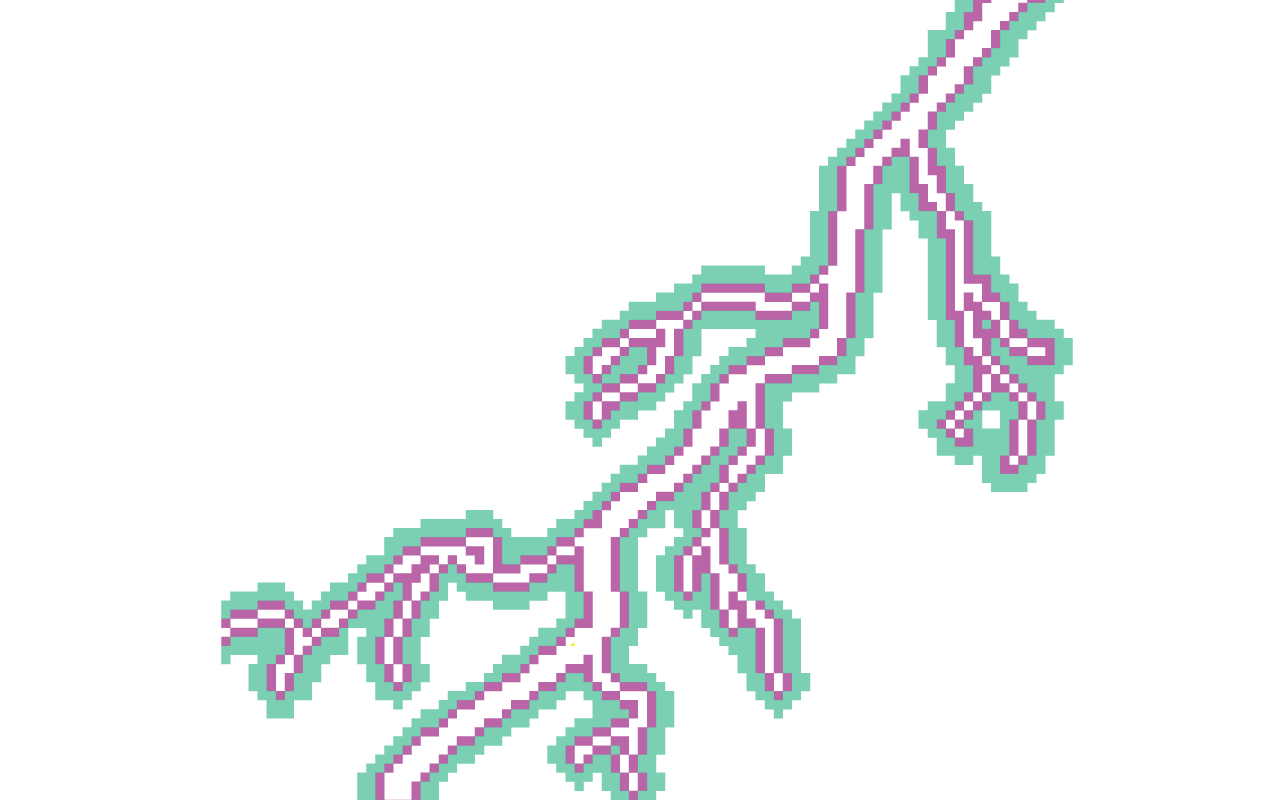
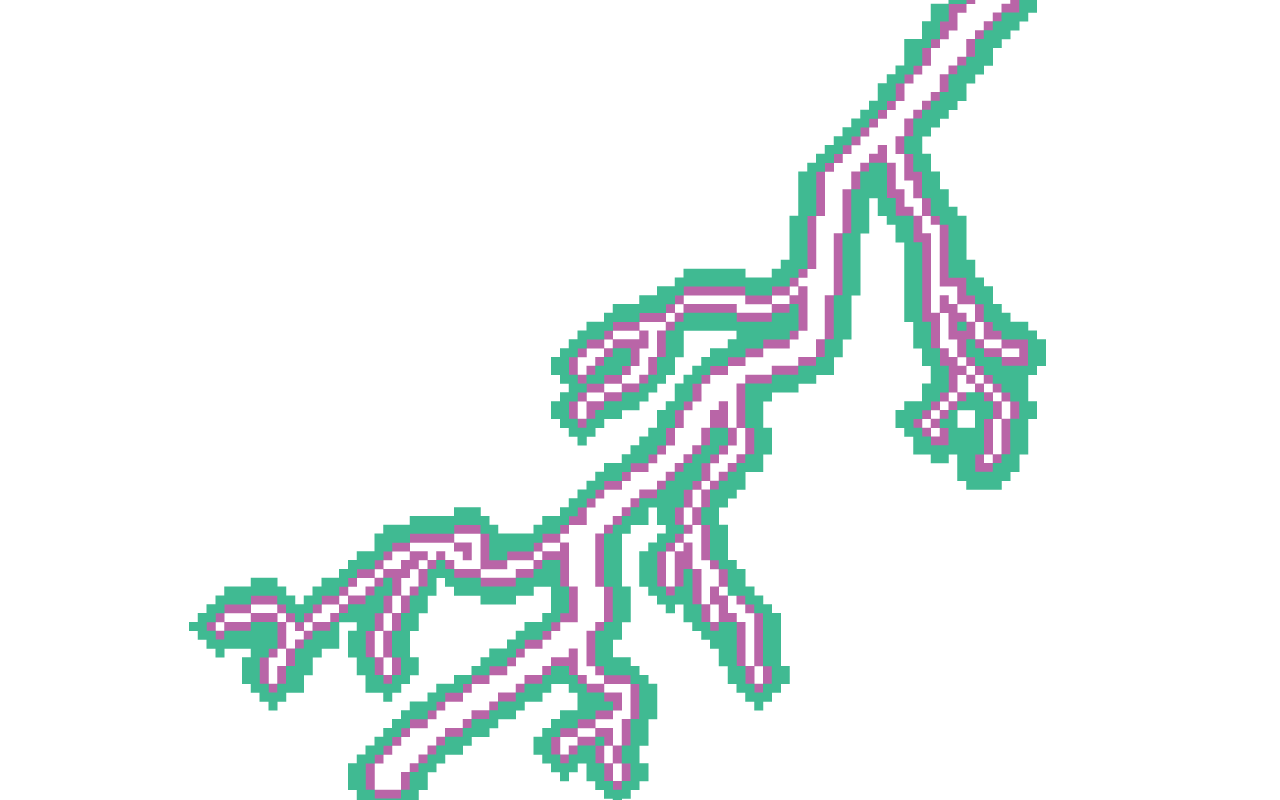
adding assets

Changed region(s): [[0.1562, 0.0, 0.8438, 1.0]]

diff --git a/style.css b/style.css
@@ -26,7 +26,7 @@ button{
     font-size: 25px;
     margin: 4px 2px;
     cursor: pointer;
-    border-radius: 3px;
+    border-radius: 6px;
     font-family: 'VT323', monospace;
 }
 
@@ -66,7 +66,7 @@ body {
 .lightning {
   width: 100vw;
   height: 100vw;
-  top: 0%;
+  top: 0;
   position: absolute;
   z-index: -9;
   animation: flash 10s infinite linear;
@@ -97,16 +97,14 @@ body {
 }
 
 .letters{
-  margin-top: 20%;
+  margin-top: 45%;
 }
 
-.red {
-  background-color: red;
-  width: 100vw;
-  height: 100vw;
+.bg {
   position: absolute;
-  opacity: .2;
-  display: none;
+  top: 0;
+  right: 0;
+  z-index: -10;
 }
 
 

diff --git a/index.html b/index.html
@@ -11,13 +11,13 @@
     </div>
     <div id="lose"> Die!
     </div>
+
     <div class="lightning"><img class="lightning2" src="images/lightning-for-hangman.png" alt="">
     </div>
     <div class="game-start">
       <button class="game"><img class="startButton" src="images/Start-Button.png"></button>
     </div>
-
-    <div class="red">
+    <div class="bg"><img src="images/tree-for-hanging-with-the-man.png" alt="">
     </div>
   </body>
 </html>

diff --git a/main.js b/main.js
@@ -20,7 +20,8 @@ $gameStart.one("click", function(){
   $('.game-start').fadeOut('slow');
 
 
-  let theWords = ["DEATH", "RAINBOW", "FLAY", "HEART", "LOVE", "MAIM", "MURDER", "SURRENDER", "BUTTERFLY"];
+  let theWords = ["DEATH", "REIGN", "FLAY", "MANGY", "SLAUGHTER", "HERETIC", "MURDER AGAIN", "AVENGE", "JUSTIFY", "DISASTER",
+  "DUNGEON", "PESTILENCE"];
 
   let word = theWords[Math.floor(Math.random() * theWords.length)];
 
